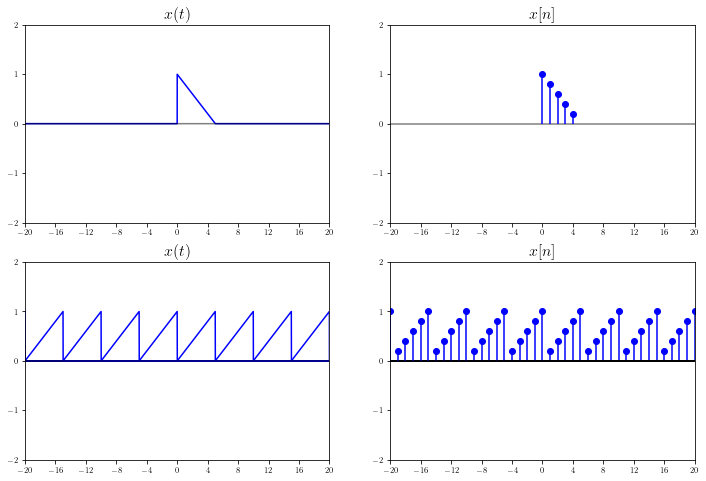
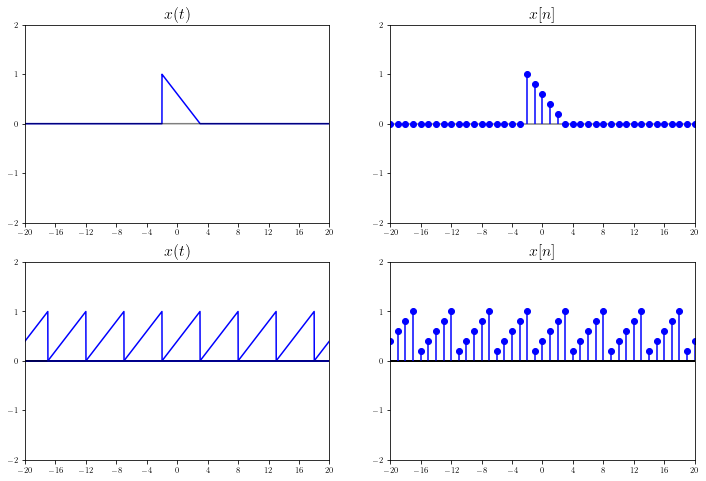
Update documentation

diff --git a/courses/dsp/intro.html b/courses/dsp/intro.html
@@ -790,12 +790,13 @@ title="Print to PDF"
     <span class="p">(</span><span class="mi">0</span><span class="p">,</span> <span class="n">t</span><span class="o">&lt;</span><span class="mi">0</span><span class="p">),</span>
     <span class="p">(</span><span class="mi">0</span><span class="p">,</span> <span class="n">t</span><span class="o">&gt;</span><span class="mi">5</span><span class="p">),</span>
     <span class="p">(</span><span class="mi">1</span><span class="o">-</span><span class="n">t</span><span class="o">/</span><span class="mi">5</span><span class="p">,</span> <span class="p">(</span><span class="mi">0</span><span class="o">&lt;=</span><span class="n">t</span><span class="p">)</span><span class="o">&amp;</span><span class="p">(</span><span class="n">t</span><span class="o">&lt;=</span><span class="mi">5</span><span class="p">)),</span>  
-<span class="p">)</span>
+<span class="p">)</span><span class="o">.</span><span class="n">subs</span><span class="p">(</span><span class="n">t</span><span class="p">,</span> <span class="n">t</span><span class="o">+</span><span class="mi">2</span><span class="p">)</span>
 
 <span class="n">p</span> <span class="o">=</span> <span class="n">sp</span><span class="o">.</span><span class="n">Piecewise</span><span class="p">(</span>
     <span class="p">(</span><span class="mi">0</span><span class="p">,</span> <span class="n">t</span><span class="o">&lt;</span><span class="mi">0</span><span class="p">),</span>
+    <span class="p">(</span><span class="mi">0</span><span class="p">,</span> <span class="n">t</span><span class="o">&gt;=</span><span class="mi">5</span><span class="p">),</span>
     <span class="p">(</span><span class="mi">1</span><span class="o">-</span><span class="n">t</span><span class="o">/</span><span class="mi">5</span><span class="p">,</span> <span class="p">(</span><span class="mi">0</span><span class="o">&lt;=</span><span class="n">t</span><span class="p">)</span><span class="o">&amp;</span><span class="p">(</span><span class="n">t</span><span class="o">&lt;=</span><span class="mi">5</span><span class="p">)),</span>  
-<span class="p">)</span>
+<span class="p">)</span><span class="o">.</span><span class="n">subs</span><span class="p">(</span><span class="n">t</span><span class="p">,</span> <span class="n">t</span><span class="o">+</span><span class="mi">3</span><span class="p">)</span>
 
 <span class="n">mpl_axes_plot</span><span class="p">(</span><span class="n">ax</span><span class="p">[</span><span class="mi">0</span><span class="p">][</span><span class="mi">0</span><span class="p">],</span> <span class="n">n</span><span class="p">,</span> <span class="p">(</span><span class="n">t</span><span class="p">,</span> <span class="o">-</span><span class="mi">40</span><span class="p">,</span> <span class="mi">40</span><span class="p">),</span> <span class="n">color</span><span class="o">=</span><span class="s1">&#39;b&#39;</span><span class="p">)</span>
 <span class="n">ax</span><span class="p">[</span><span class="mi">0</span><span class="p">][</span><span class="mi">0</span><span class="p">]</span><span class="o">.</span><span class="n">set_xlim</span><span class="p">(</span><span class="o">-</span><span class="mi">20</span><span class="p">,</span> <span class="mi">20</span><span class="p">,</span> <span class="mi">1</span><span class="p">)</span>
@@ -803,7 +804,7 @@ title="Print to PDF"
 <span class="n">ax</span><span class="p">[</span><span class="mi">0</span><span class="p">][</span><span class="mi">0</span><span class="p">]</span><span class="o">.</span><span class="n">set_title</span><span class="p">(</span><span class="sa">r</span><span class="s1">&#39;$x(t)$&#39;</span><span class="p">,</span> <span class="n">fontsize</span><span class="o">=</span><span class="mi">16</span><span class="p">)</span>
 
 
-<span class="n">mpl_axes_stem</span><span class="p">(</span><span class="n">ax</span><span class="p">[</span><span class="mi">0</span><span class="p">][</span><span class="mi">1</span><span class="p">],</span> <span class="n">n</span><span class="p">,</span> <span class="p">(</span><span class="n">t</span><span class="p">,</span> <span class="o">-</span><span class="mi">40</span><span class="p">,</span> <span class="mi">40</span><span class="p">,</span> <span class="mi">1</span><span class="p">),</span> <span class="n">zero_is_none</span><span class="o">=</span><span class="kc">True</span><span class="p">,</span> <span class="n">linefmt</span><span class="o">=</span><span class="s1">&#39;b&#39;</span><span class="p">,</span> <span class="n">markerfmt</span><span class="o">=</span><span class="s1">&#39;bo&#39;</span><span class="p">)</span>
+<span class="n">mpl_axes_stem</span><span class="p">(</span><span class="n">ax</span><span class="p">[</span><span class="mi">0</span><span class="p">][</span><span class="mi">1</span><span class="p">],</span> <span class="n">n</span><span class="p">,</span> <span class="p">(</span><span class="n">t</span><span class="p">,</span> <span class="o">-</span><span class="mi">40</span><span class="p">,</span> <span class="mi">40</span><span class="p">,</span> <span class="mi">1</span><span class="p">),</span> <span class="n">linefmt</span><span class="o">=</span><span class="s1">&#39;b&#39;</span><span class="p">,</span> <span class="n">markerfmt</span><span class="o">=</span><span class="s1">&#39;bo&#39;</span><span class="p">)</span>
 <span class="n">ax</span><span class="p">[</span><span class="mi">0</span><span class="p">][</span><span class="mi">1</span><span class="p">]</span><span class="o">.</span><span class="n">set_xlim</span><span class="p">(</span><span class="o">-</span><span class="mi">20</span><span class="p">,</span> <span class="mi">20</span><span class="p">,</span> <span class="mi">1</span><span class="p">)</span>
 <span class="n">ax</span><span class="p">[</span><span class="mi">0</span><span class="p">][</span><span class="mi">1</span><span class="p">]</span><span class="o">.</span><span class="n">set_ylim</span><span class="p">(</span><span class="o">-</span><span class="mf">2.</span><span class="p">,</span> <span class="mf">2.</span><span class="p">,</span> <span class="mi">1</span><span class="p">)</span>
 <span class="n">ax</span><span class="p">[</span><span class="mi">0</span><span class="p">][</span><span class="mi">1</span><span class="p">]</span><span class="o">.</span><span class="n">set_title</span><span class="p">(</span><span class="sa">r</span><span class="s1">&#39;$x[n]$&#39;</span><span class="p">,</span> <span class="n">fontsize</span><span class="o">=</span><span class="mi">16</span><span class="p">)</span>
